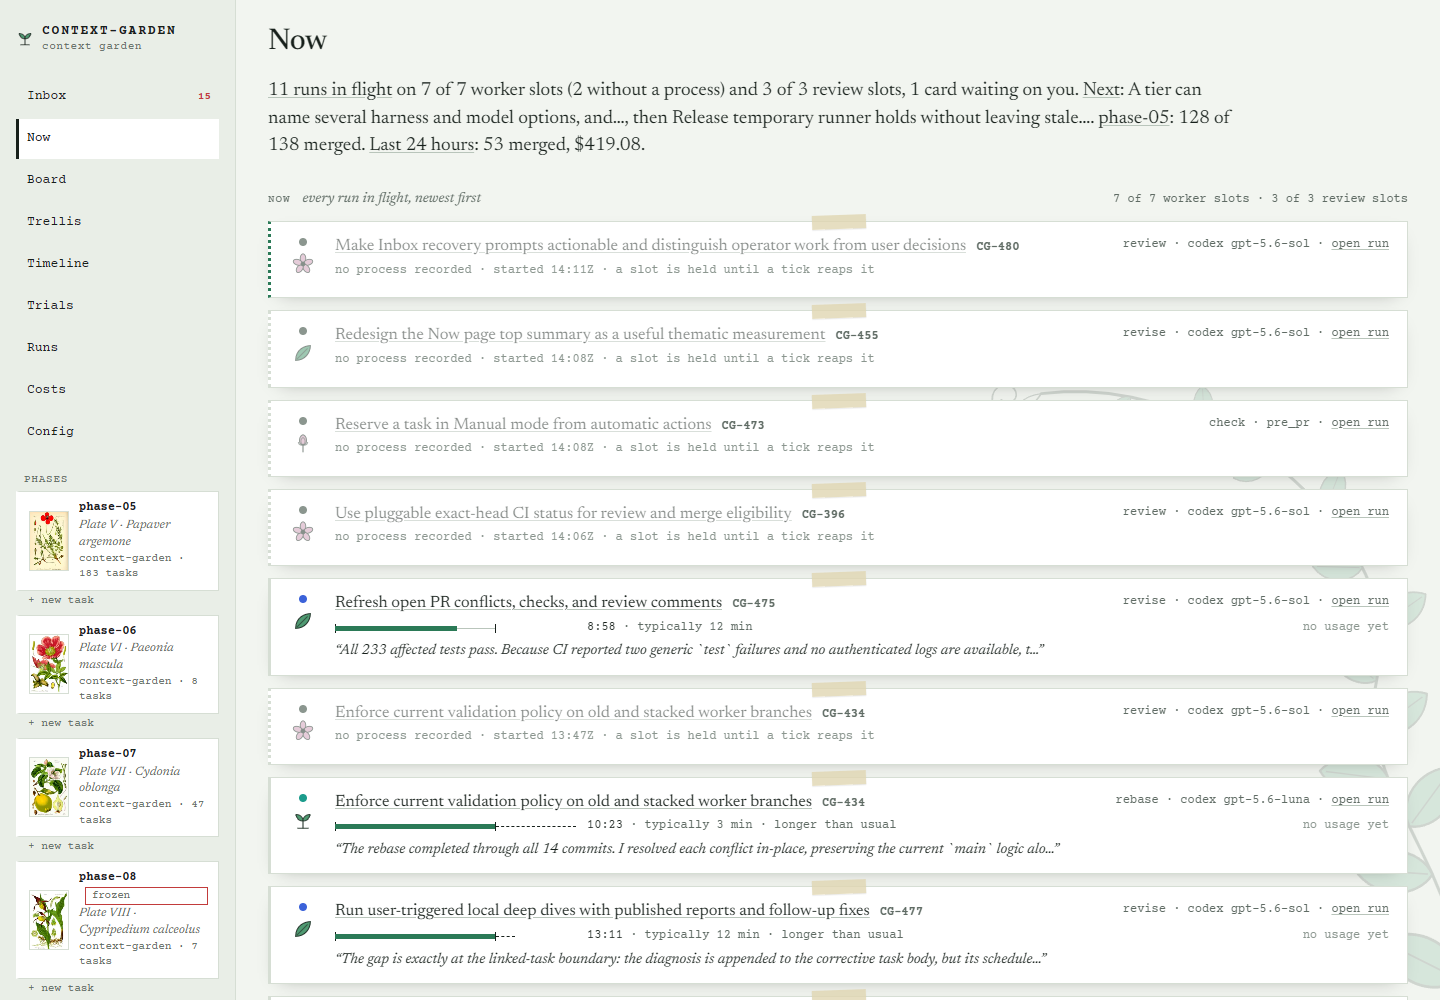
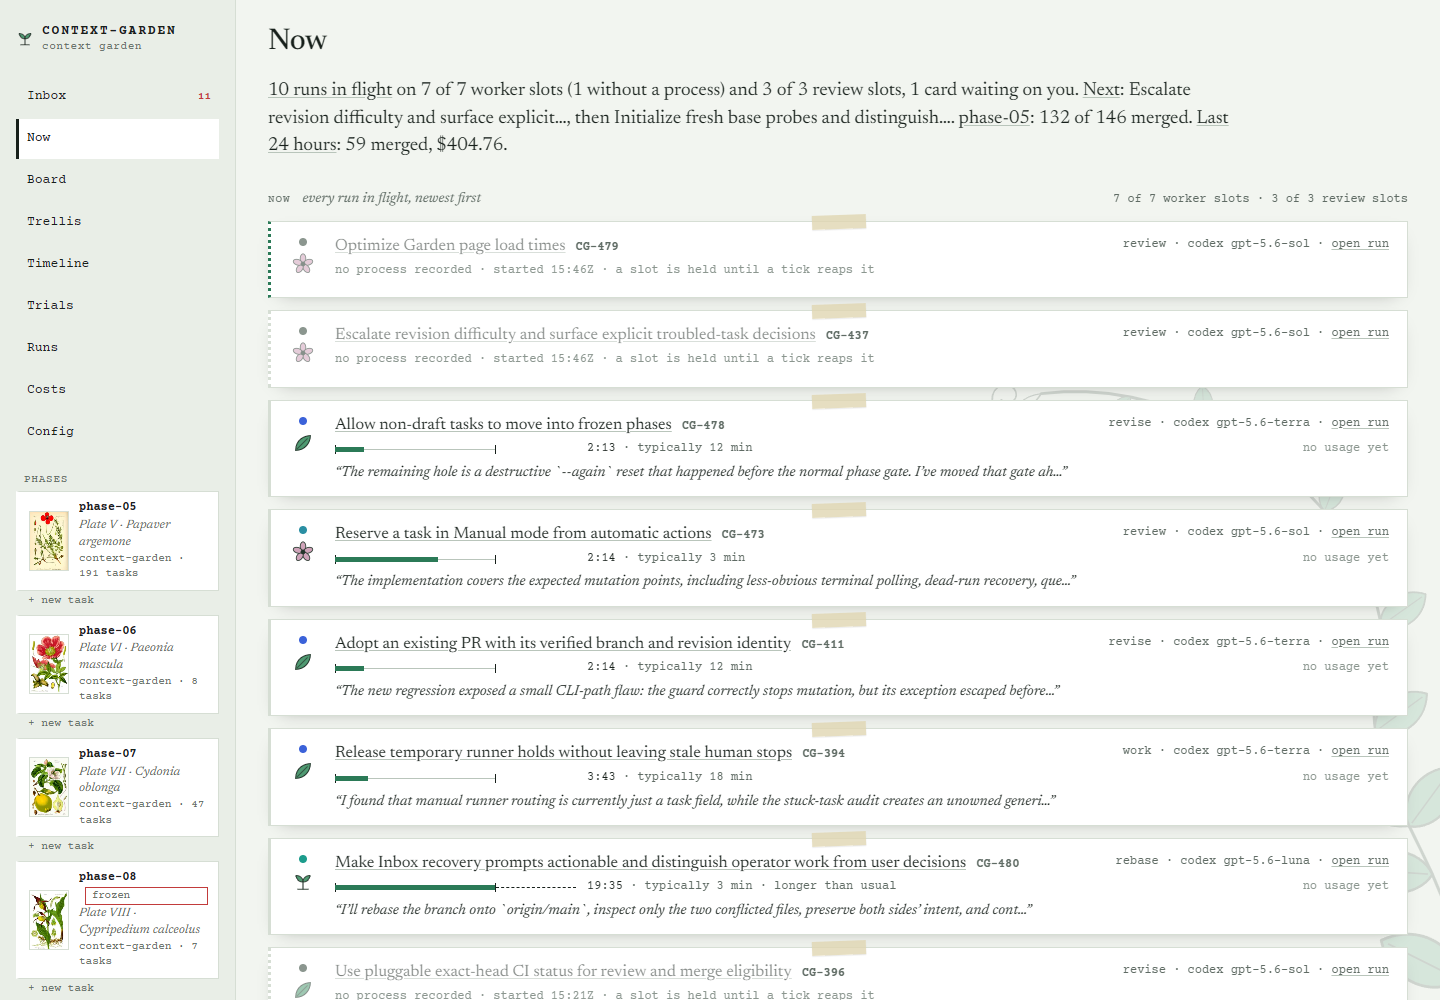
Refresh Now screenshot from the current running garden

diff --git a/docs/screenshots/README.md b/docs/screenshots/README.md
@@ -4,7 +4,7 @@ The main feature tour combines a real development garden with smaller examples. 
 
 ## Live development garden
 
-`now-light.png`, the three `board-*-light.png` images, `now-run-costs-light.png`, and `now-outcomes-light.png` were captured from the locally running context-garden development garden on 2026-09-09. The server reported build `8072091aea73` during inspection. They show real task and run state, which continues changing after capture.
+The live images were captured from the locally running context-garden development garden on 2026-09-09. `now-light.png` was refreshed later that day from serving build `a0f69c6bfd98`; the three `board-*-light.png` images and the two Now comparison charts retain their earlier captures from build `8072091aea73`. Each image shows real task and run state at its capture time, which continues changing afterward. The refreshed Now image preserves the 1440 × 1000 light-mode viewport and last-24-hours filter.
 
 Now uses its **last 24 hours** filter. The two comparison images are direct element screenshots of the “Runs by harness and model” and “By difficulty and model” sections lower down that page. They preserve the table labels, sample counts, missing values, and sparse-sample styling. These observations are not controlled model benchmarks or estimates for another project.
 
